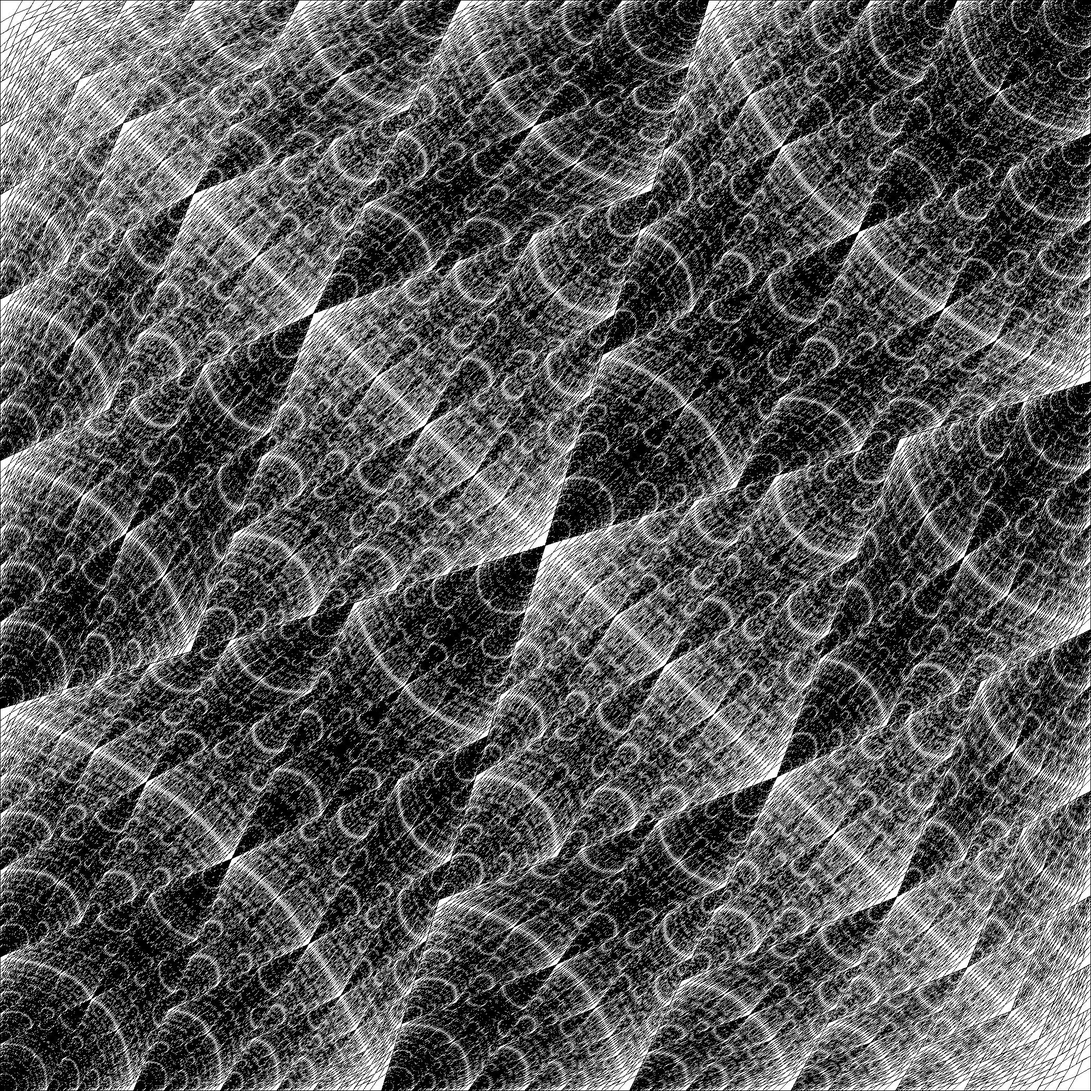
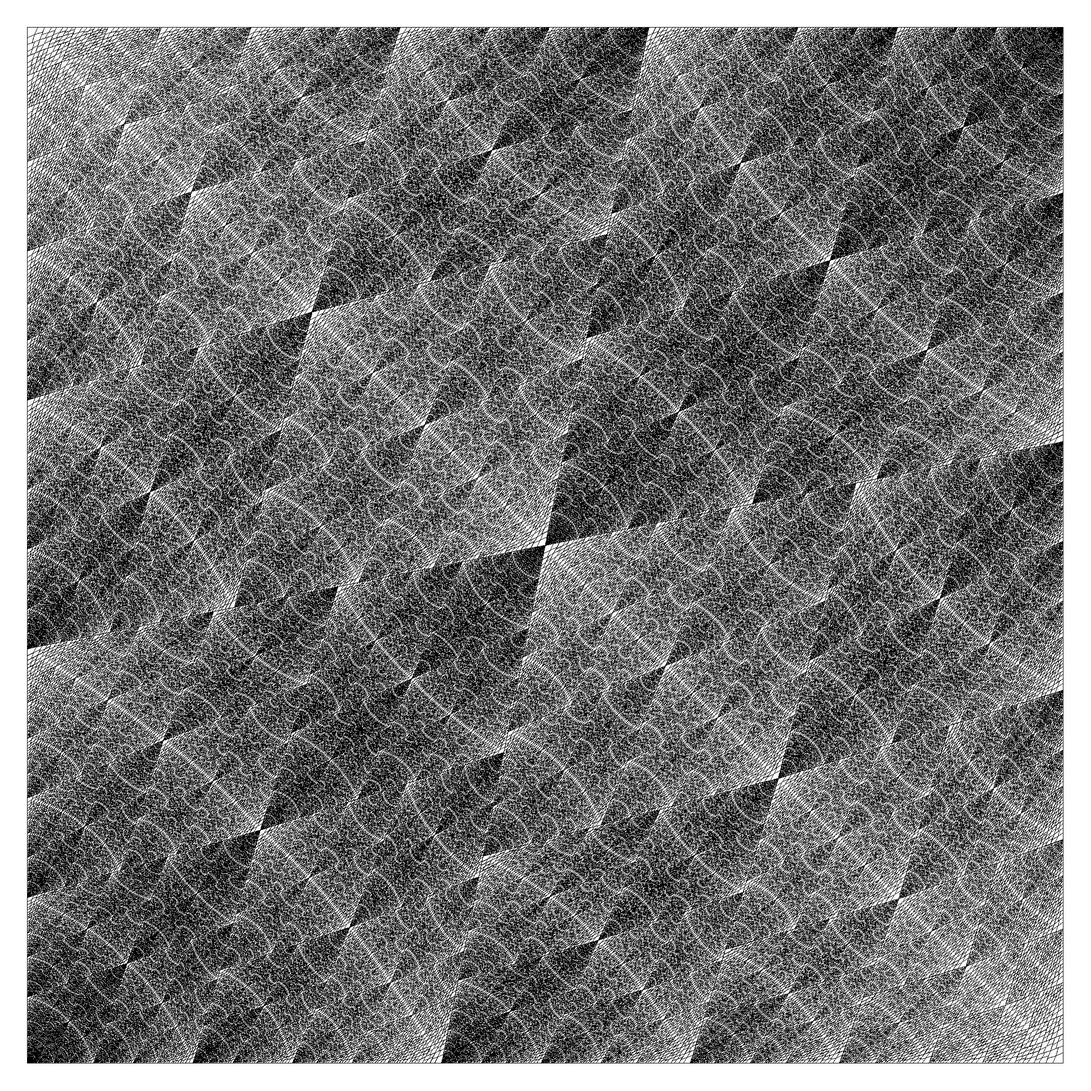
Nine更新

diff --git a/Gallery2D/Nine.py b/Gallery2D/Nine.py
@@ -9,7 +9,7 @@ class Nine(Figure):
     def get_iter(self):
         if self.n == 0:
             return iter((self.poly),)
-        t = 0.35
+        t = 0.4
         center = sum([p for p in self.poly.points], point_2d(0, 0)).scaled(1 / 4)
         mid_points = [self.poly.points[3].scaled(t) + self.poly.points[0].scaled(1 - t),
                       self.poly.points[0].scaled(1 - t) + self.poly.points[1].scaled(t),
